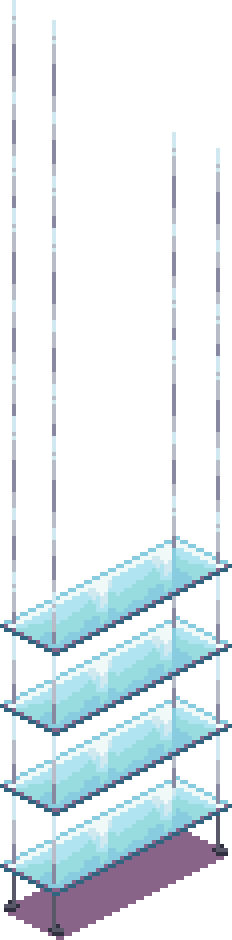
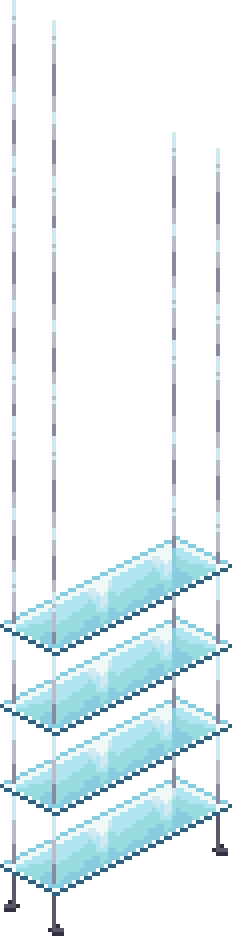
assets(apartamento): cadeira, mesa, computador e telefone reais do MN2
- chair vinha do sheet de sofás (0264) e aparecia como sofá; agora usa
  10_RES_GLOBAL_3/0297, a cadeira iso original
- table vinha de um tampo chato de LOWAPARTMENTA/0562 (virou 'rug'); a mesa
  passa a ser 07_RES_GLOBAL/0254
- computer sai de 11_RES_GLOBAL_4/0327 e phone de LOWAPARTMENTA/0547, em vez
  de reaproveitarem tv/poster
- remove a sombra mauve (136,100,136) que os sheets trazem pintada e que
  virava mancha roxa no piso de madeira
- reduz o albedo dos tiles (piso 0.68, parede 0.80, banheiro 0.85): quase
  brancos, saturavam para 255 assim que recebiam luz

Changed region(s): [[0.0, 0.5267, 1.0, 1.0], [0.2112, 0.4647, 0.2414, 0.4957], [0.2112, 0.4028, 0.2414, 0.4338]]

diff --git a/Miami_2/godot/miami3d/tools/build_apartment_kit.py b/Miami_2/godot/miami3d/tools/build_apartment_kit.py
@@ -87,8 +87,26 @@ def upscale(im: Image.Image) -> Image.Image:
     return im.resize((im.width * SCALE, im.height * SCALE), Image.NEAREST)
 
 
+# Os sheets do MN2 trazem a sombra do chão pintada no próprio sprite, sempre
+# neste mauve. Em cima do piso de madeira ela vira uma mancha roxa.
+BAKED_SHADOW = (136, 100, 136)
+
+
+def strip_color(im: Image.Image, rgb: tuple[int, int, int], tol: int = 26) -> Image.Image:
+    px = im.load()
+    tr, tg, tb = rgb
+    for y in range(im.height):
+        for x in range(im.width):
+            r, g, b, a = px[x, y]
+            if a and abs(r - tr) <= tol and abs(g - tg) <= tol and abs(b - tb) <= tol:
+                px[x, y] = (0, 0, 0, 0)
+    return im
+
+
 def save_item(name: str, im: Image.Image, meta: dict) -> dict:
     im = key_black(im.copy())
+    im = strip_color(im, BAKED_SHADOW)
+    im = im.crop(im.getbbox() or (0, 0, im.width, im.height))
     orig_dir = OUT / "original"
     x4_dir = OUT / "items"
     orig_dir.mkdir(parents=True, exist_ok=True)
@@ -134,6 +152,10 @@ def install_tiles() -> dict:
         "wall": tiles_dir / "wall_paint.png",
         "bath": tiles_dir / "bath_tile.png",
     }
+    # Albedo precisa de margem: textura quase branca satura para 255 assim que
+    # recebe luz, e o piso vira um retângulo branco sem desenho.
+    ALBEDO_GAIN = {"floor": 0.68, "wall": 0.80, "bath": 0.85}
+
     out = {}
     for kind, src in mapping.items():
         dst = tiles_dir / f"{kind}.png"
@@ -141,11 +163,15 @@ def install_tiles() -> dict:
             im = Image.open(src).convert("RGBA")
             # normalize to 256 for tiling
             im = im.resize((256, 256), Image.LANCZOS)
-            im.save(dst)
         elif fallbacks[kind].exists():
-            shutil.copy(fallbacks[kind], dst)
+            im = Image.open(fallbacks[kind]).convert("RGBA")
         else:
             continue
+        gain = ALBEDO_GAIN.get(kind, 1.0)
+        if gain != 1.0:
+            rgb = im.convert("RGB").point(lambda v, g=gain: int(v * g))
+            im = Image.merge("RGBA", (*rgb.split(), im.split()[3]))
+        im.save(dst)
         out[kind] = f"res://assets/locations/player_apartment/tiles/{kind}.png"
         if kind == "floor":
             shutil.copy(dst, KIT / "albedo.png")
@@ -167,11 +193,12 @@ def main() -> None:
         "window": ("0555", 0, 200),
         "closet": ("0556", 0, 80),
         "stove": ("0552", 0, 80),
-        "table": ("0562", 0, 120),
+        "rug": ("0562", 0, 120),
         "shelf": ("0560", 0, 200),
         "poster": ("0563", 0, 80),
         "railing": ("0565", 0, 120),
         "wall_tile_sheet": ("0559", 0, 200),
+        "phone": ("0547", 0, 40),
     }
     for name, (sid, idx, mina) in loc_map.items():
         path = low / f"{sid}_sprite_frames_pal0.png"
@@ -186,7 +213,7 @@ def main() -> None:
         "bed_standard": (SPRITES / "07_RES_GLOBAL_SPRITES" / "0248_sprite_frames_pal0.png", 0, 400),
         "sofa_basic": (SPRITES / "08_RES_GLOBAL_1_SPRITES" / "0264_sprite_frames_pal1.png", 2, 400),  # orange straight
         "sofa_curved": (SPRITES / "08_RES_GLOBAL_1_SPRITES" / "0264_sprite_frames_pal1.png", 1, 400),
-        "chair": (SPRITES / "08_RES_GLOBAL_1_SPRITES" / "0264_sprite_frames_pal1.png", 3, 100),
+        "chair": (SPRITES / "10_RES_GLOBAL_3_SPRITES" / "0297_sprite_frames_pal0.png", 0, 100),
         "fridge": (SPRITES / "11_RES_GLOBAL_4_SPRITES" / "0320_sprite_frames_pal0.png", 0, 200),
         "kitchen_cabinet": (SPRITES / "07_RES_GLOBAL_SPRITES" / "0252_sprite_frames_pal0.png", 3, 300),
         "toilet": (SPRITES / "09_RES_GLOBAL_2_SPRITES" / "0287_sprite_frames_pal0.png", 0, 80),
@@ -195,6 +222,8 @@ def main() -> None:
         "glass_table": (SPRITES / "08_RES_GLOBAL_1_SPRITES" / "0269_sprite_frames_pal0.png", 0, 100),
         "door": (SPRITES / "10_RES_GLOBAL_3_SPRITES" / "0311_sprite_frames_pal0.png", 0, 200),
         "mirror": (SPRITES / "09_RES_GLOBAL_2_SPRITES" / "0285_sprite_frames_pal0.png", 0, 40),
+        "computer": (SPRITES / "11_RES_GLOBAL_4_SPRITES" / "0327_sprite_frames_pal0.png", 0, 100),
+        "table": (SPRITES / "07_RES_GLOBAL_SPRITES" / "0254_sprite_frames_pal0.png", 0, 300),
     }
     for name, (path, idx, mina) in sources.items():
         if not path.exists():
@@ -243,8 +272,8 @@ def main() -> None:
         "shower": "shower",
         "sink": "sink",
         "plant": "plant",
-        "phone": "poster",
-        "computer": "tv",
+        "phone": "phone",
+        "computer": "computer",
         "window": "window",
         "shelf": "shelf",
         "door": "door",
